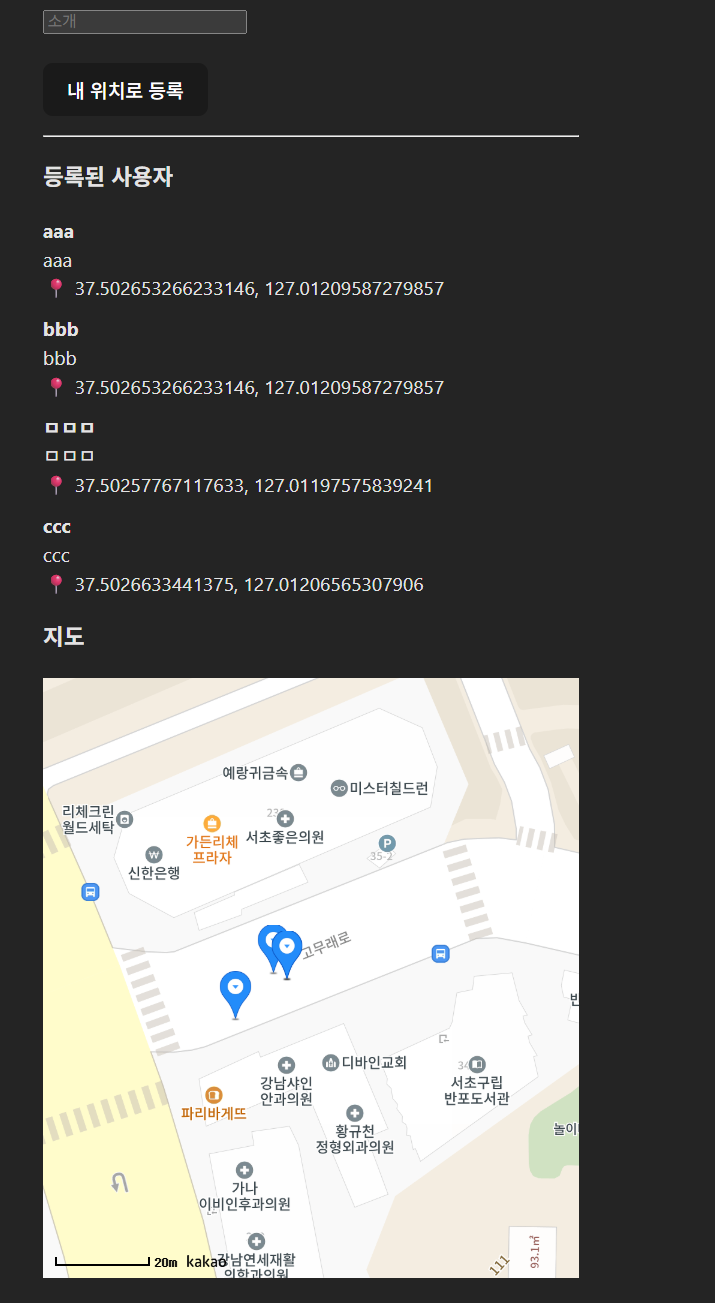
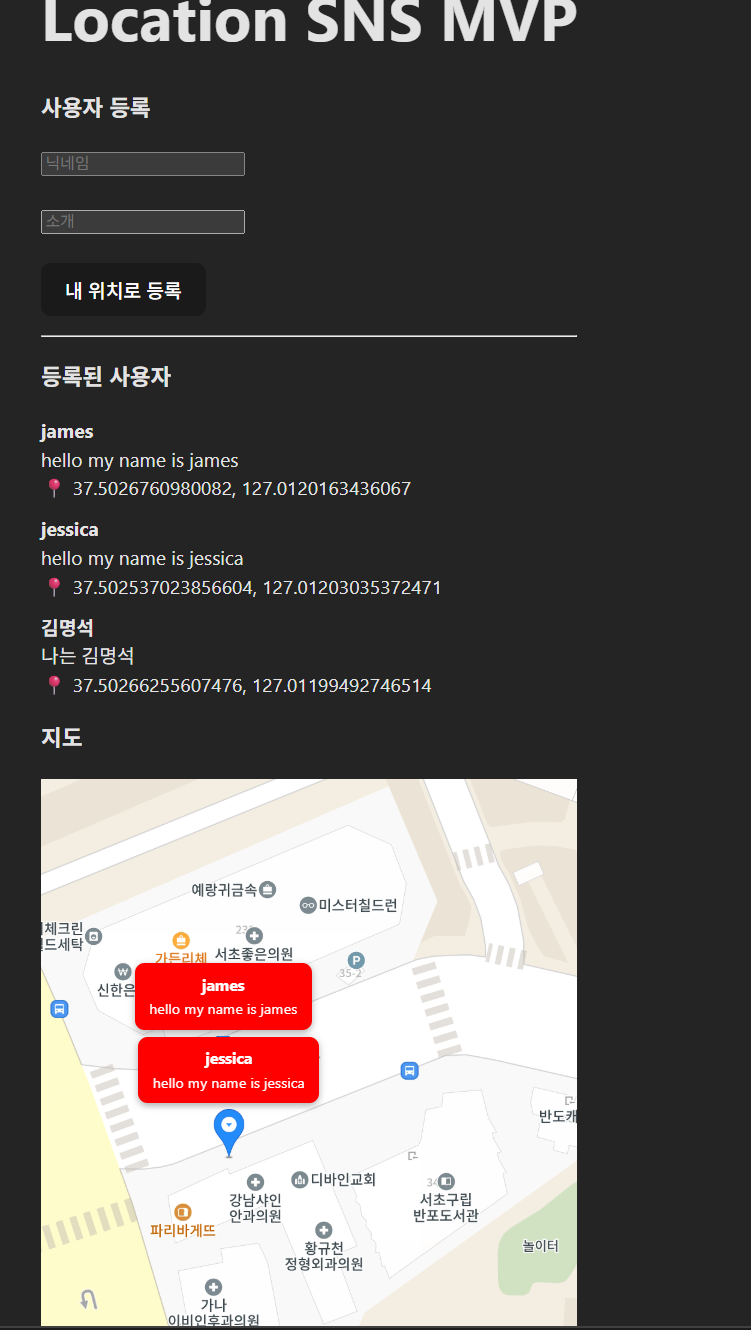
카카오맵 사용자 프로필 빨간 텍스트 박스 오버레이 추가

Changed region(s): [[0.0308, 0.0614, 0.8308, 1.0], [0.0615, 0.0, 0.7692, 0.0307], [0.3077, 0.1535, 0.3385, 0.1842]]

diff --git a/frontend/src/components/KakaoMap.jsx b/frontend/src/components/KakaoMap.jsx
@@ -24,7 +24,7 @@ function KakaoMap() {
           const map = new window.kakao.maps.Map(container, options);
 
           /*
-            🔵 현재 사용자 마커 (파란색)
+            🔵 내 위치 마커
           */
           const myMarker = new window.kakao.maps.Marker({
             position: new window.kakao.maps.LatLng(latitude, longitude),
@@ -46,35 +46,49 @@ function KakaoMap() {
             .then((res) => {
               const users = res.data;
 
-              console.log("[MAP] 근처 사용자:", users);
-
               users.forEach((user) => {
-                // 자기 자신은 제외
+                // 자기 자신 제외
                 if (user.lat === latitude && user.lng === longitude) return;
 
-                const markerPosition = new window.kakao.maps.LatLng(
+                const position = new window.kakao.maps.LatLng(
                   user.lat,
                   user.lng,
                 );
 
                 const marker = new window.kakao.maps.Marker({
-                  position: markerPosition,
+                  position,
                 });
 
                 marker.setMap(map);
 
-                const infoWindow = new window.kakao.maps.InfoWindow({
-                  content: `
-                  <div style="padding:10px;">
-                    <strong>${user.nickname}</strong><br/>
-                    ${user.bio}
+                /*
+                  🔴 RED PROFILE TEXTBOX
+                */
+                const content = `
+                  <div style="
+                    background:red;
+                    color:white;
+                    padding:8px 12px;
+                    border-radius:8px;
+                    font-size:13px;
+                    font-weight:bold;
+                    box-shadow:0 2px 6px rgba(0,0,0,0.3);
+                    text-align:center;
+                  ">
+                    ${user.nickname}<br/>
+                    <span style="font-weight:normal;font-size:12px;">
+                      ${user.bio}
+                    </span>
                   </div>
-                `,
+                `;
+
+                const overlay = new window.kakao.maps.CustomOverlay({
+                  position,
+                  content,
+                  yAnchor: 1.8, // 위치 위로 띄움
                 });
 
-                window.kakao.maps.event.addListener(marker, "click", () => {
-                  infoWindow.open(map, marker);
-                });
+                overlay.setMap(map);
               });
             })
             .catch((err) => {

diff --git a/frontend/src/App.jsx b/frontend/src/App.jsx
@@ -46,8 +46,8 @@ function App() {
 
       // 🔧 개발용 랜덤 오프셋 (200~400m 이동)
       if (window.location.search.includes("dev=true")) {
-        latitude += (Math.random() - 0.5) * 0.004;
-        longitude += (Math.random() - 0.5) * 0.004;
+        latitude += (Math.random() - 0.5) * 0.008;
+        longitude += (Math.random() - 0.5) * 0.008;
       }
 
       axios
